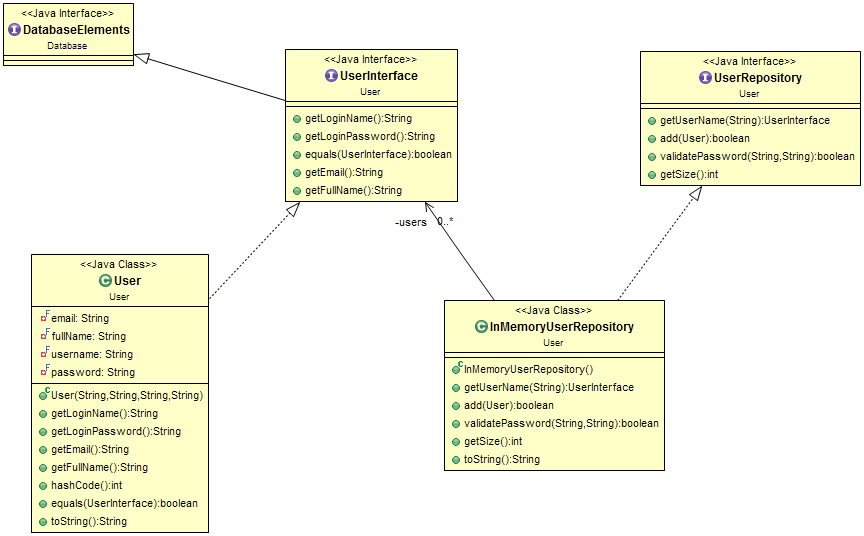
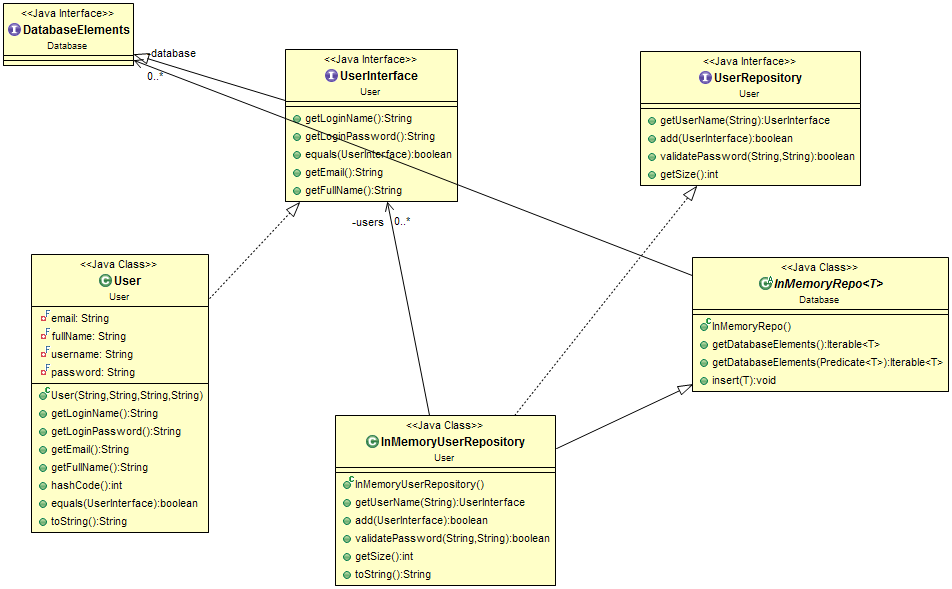
javadoc

diff --git a/src/commads/PostUser.java b/src/commads/PostUser.java
@@ -81,10 +81,12 @@ public class PostUser extends BasePostCommand implements Command {
 			
 		User p = createUser(username, password, email, fullname);
 		
-		if(userRepository.add(p))
-		{
-			System.out.println("User Added To Database" + "\n" + p.toString());
-		}
+		
+		
+//		if(userRepository.add(p))
+//		{
+//			System.out.println("User Added To Database" + "\n" + p.toString());
+//		}
 		
 	}
 }

diff --git a/src/User/InMemoryUserRepository.java b/src/User/InMemoryUserRepository.java
@@ -62,7 +62,7 @@ public class InMemoryUserRepository extends InMemoryRepo<UserInterface> implemen
 	*
 	*/	
 	@Override
-	public boolean add(User user) {
+	public boolean add(UserInterface user) {
 		
 		if (!(user == null || users.containsKey(user.getLoginName()))) {
 			users.put(user.getLoginName(), user);

diff --git a/src/User/UserRepository.java b/src/User/UserRepository.java
@@ -26,7 +26,7 @@ public interface UserRepository extends Repository<UserInterface>
 	 * This method verifies if the user was already added.
 	 *
 	 */
-	public boolean add(User user);
+	public boolean add(UserInterface user);
 	
 	/**
 	 * This method verifies if username and password are valid.

diff --git a/src/Database/InMemoryShelfRepository.java b/src/Database/InMemoryShelfRepository.java
@@ -24,6 +24,7 @@ public class InMemoryShelfRepository extends InMemoryRepo<AbstractShelf> impleme
 
 		return null;
 	}
+	
 }
 	
 
